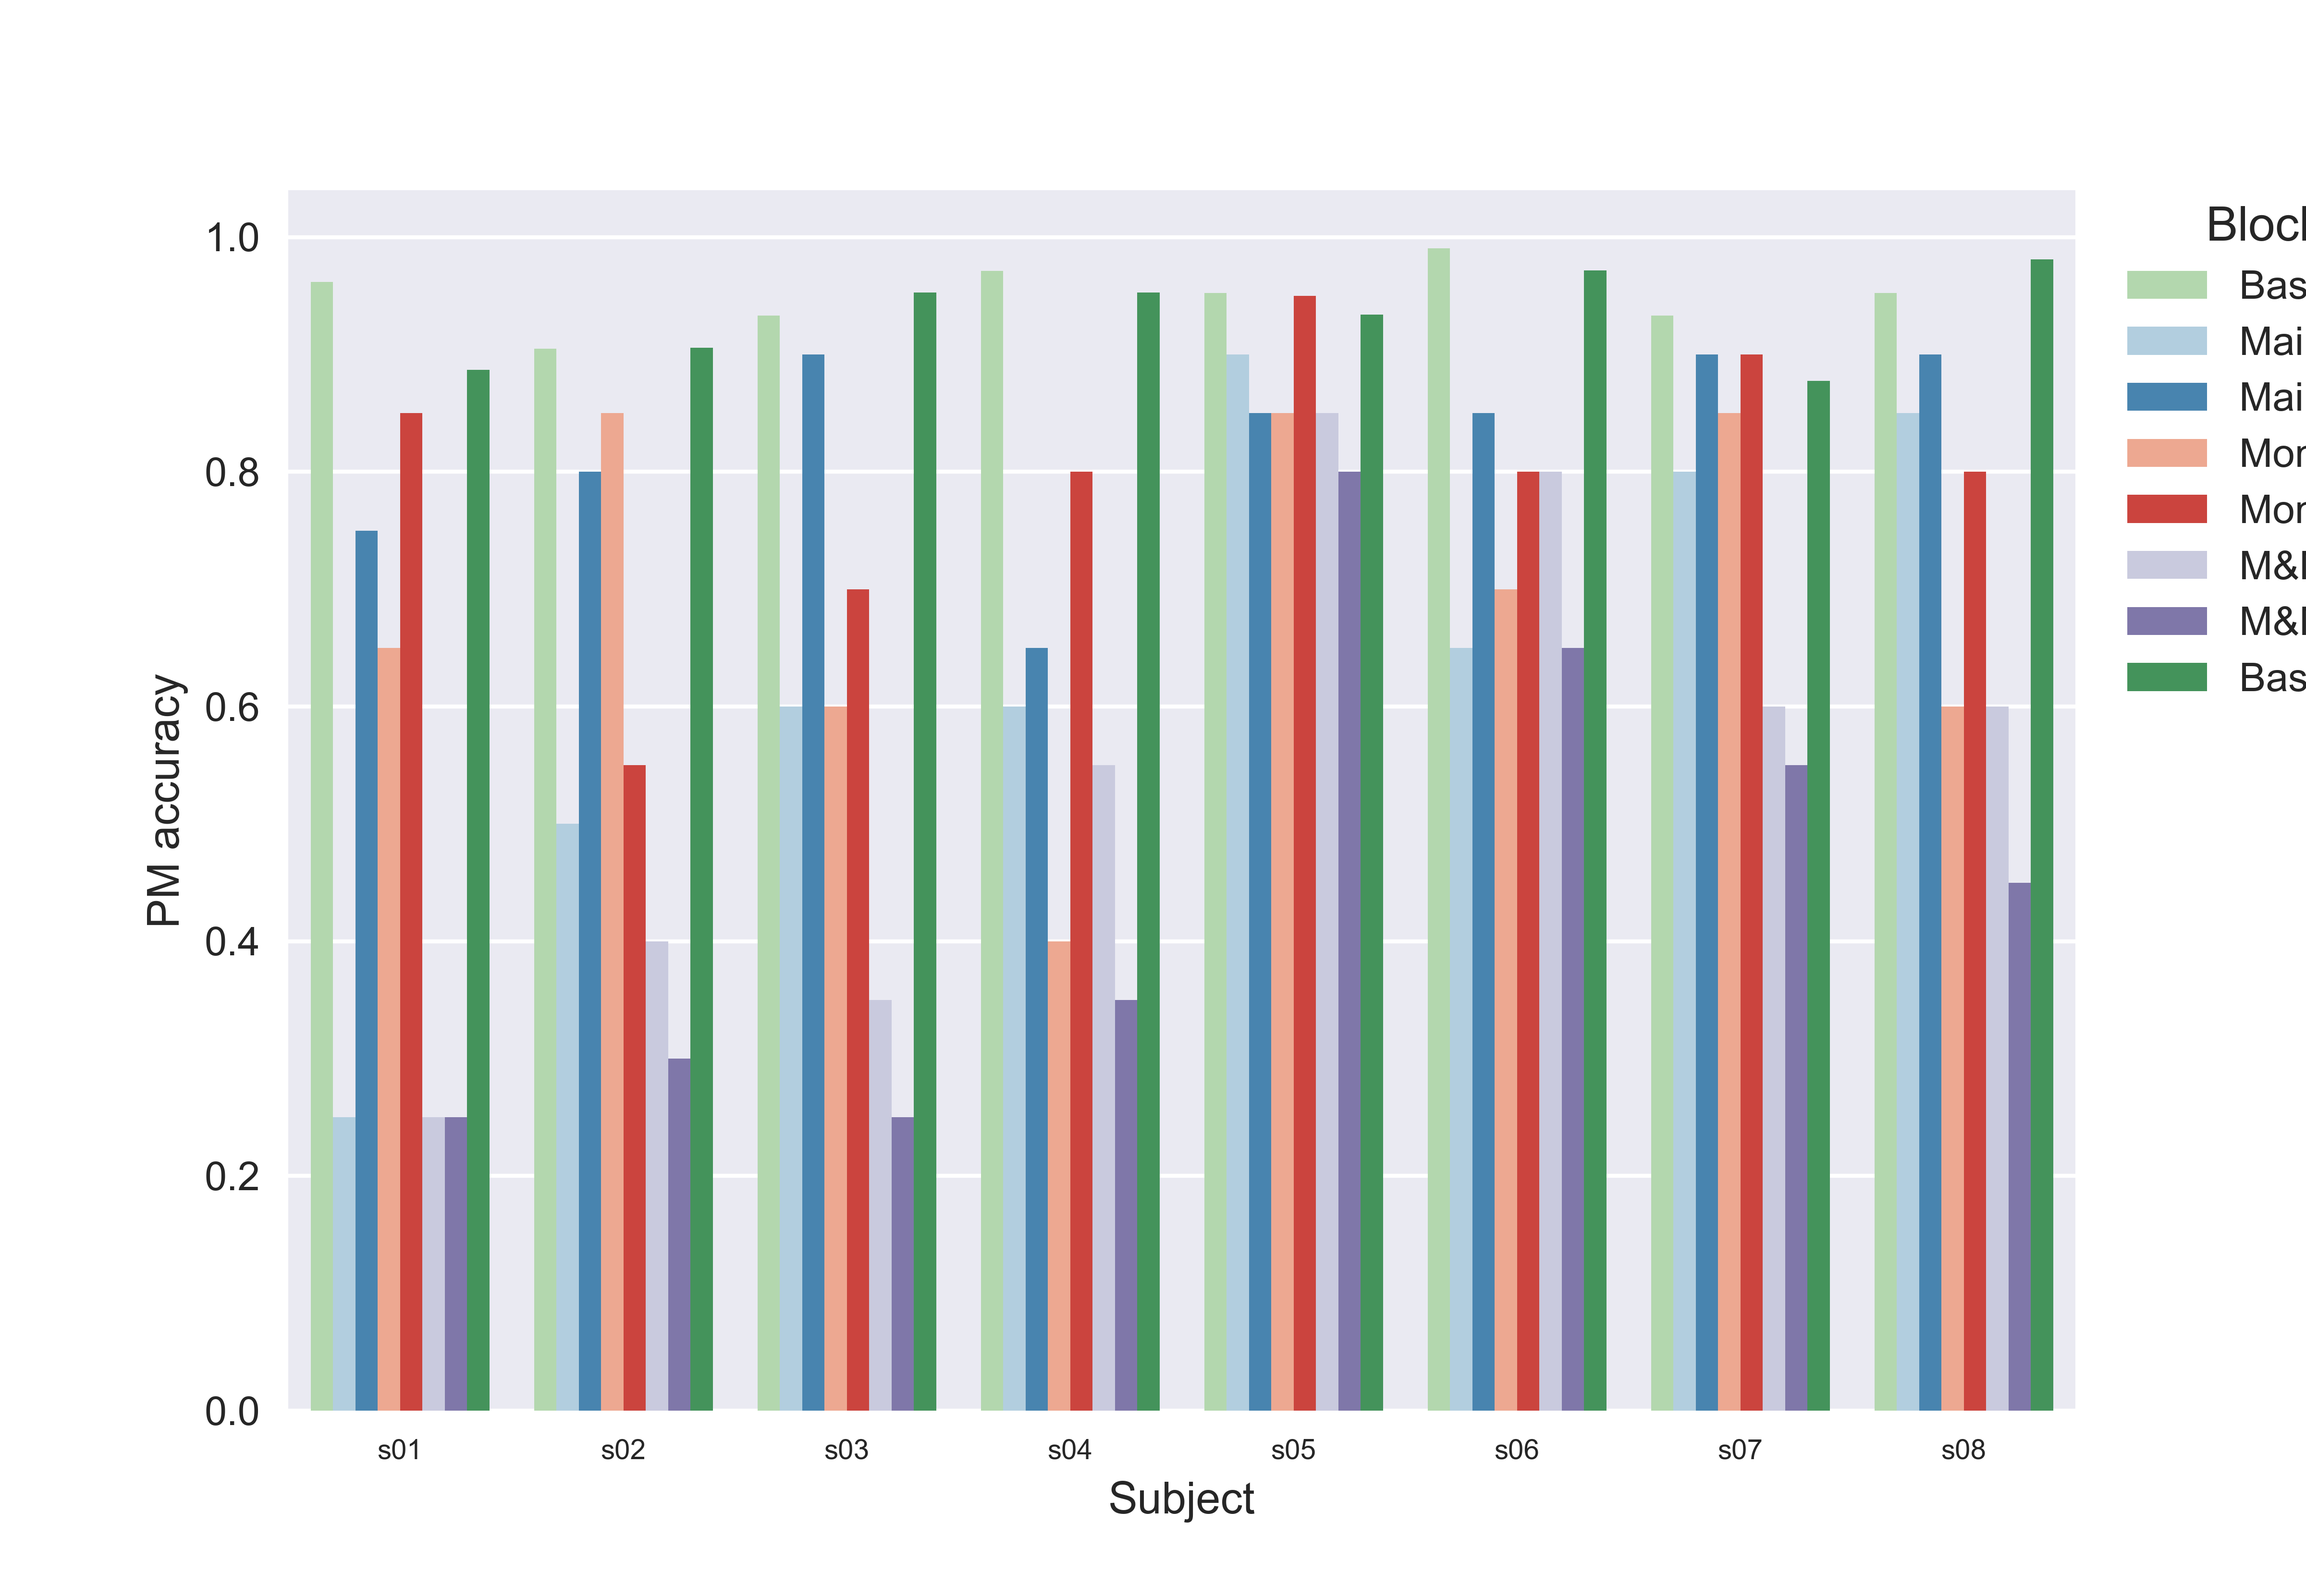
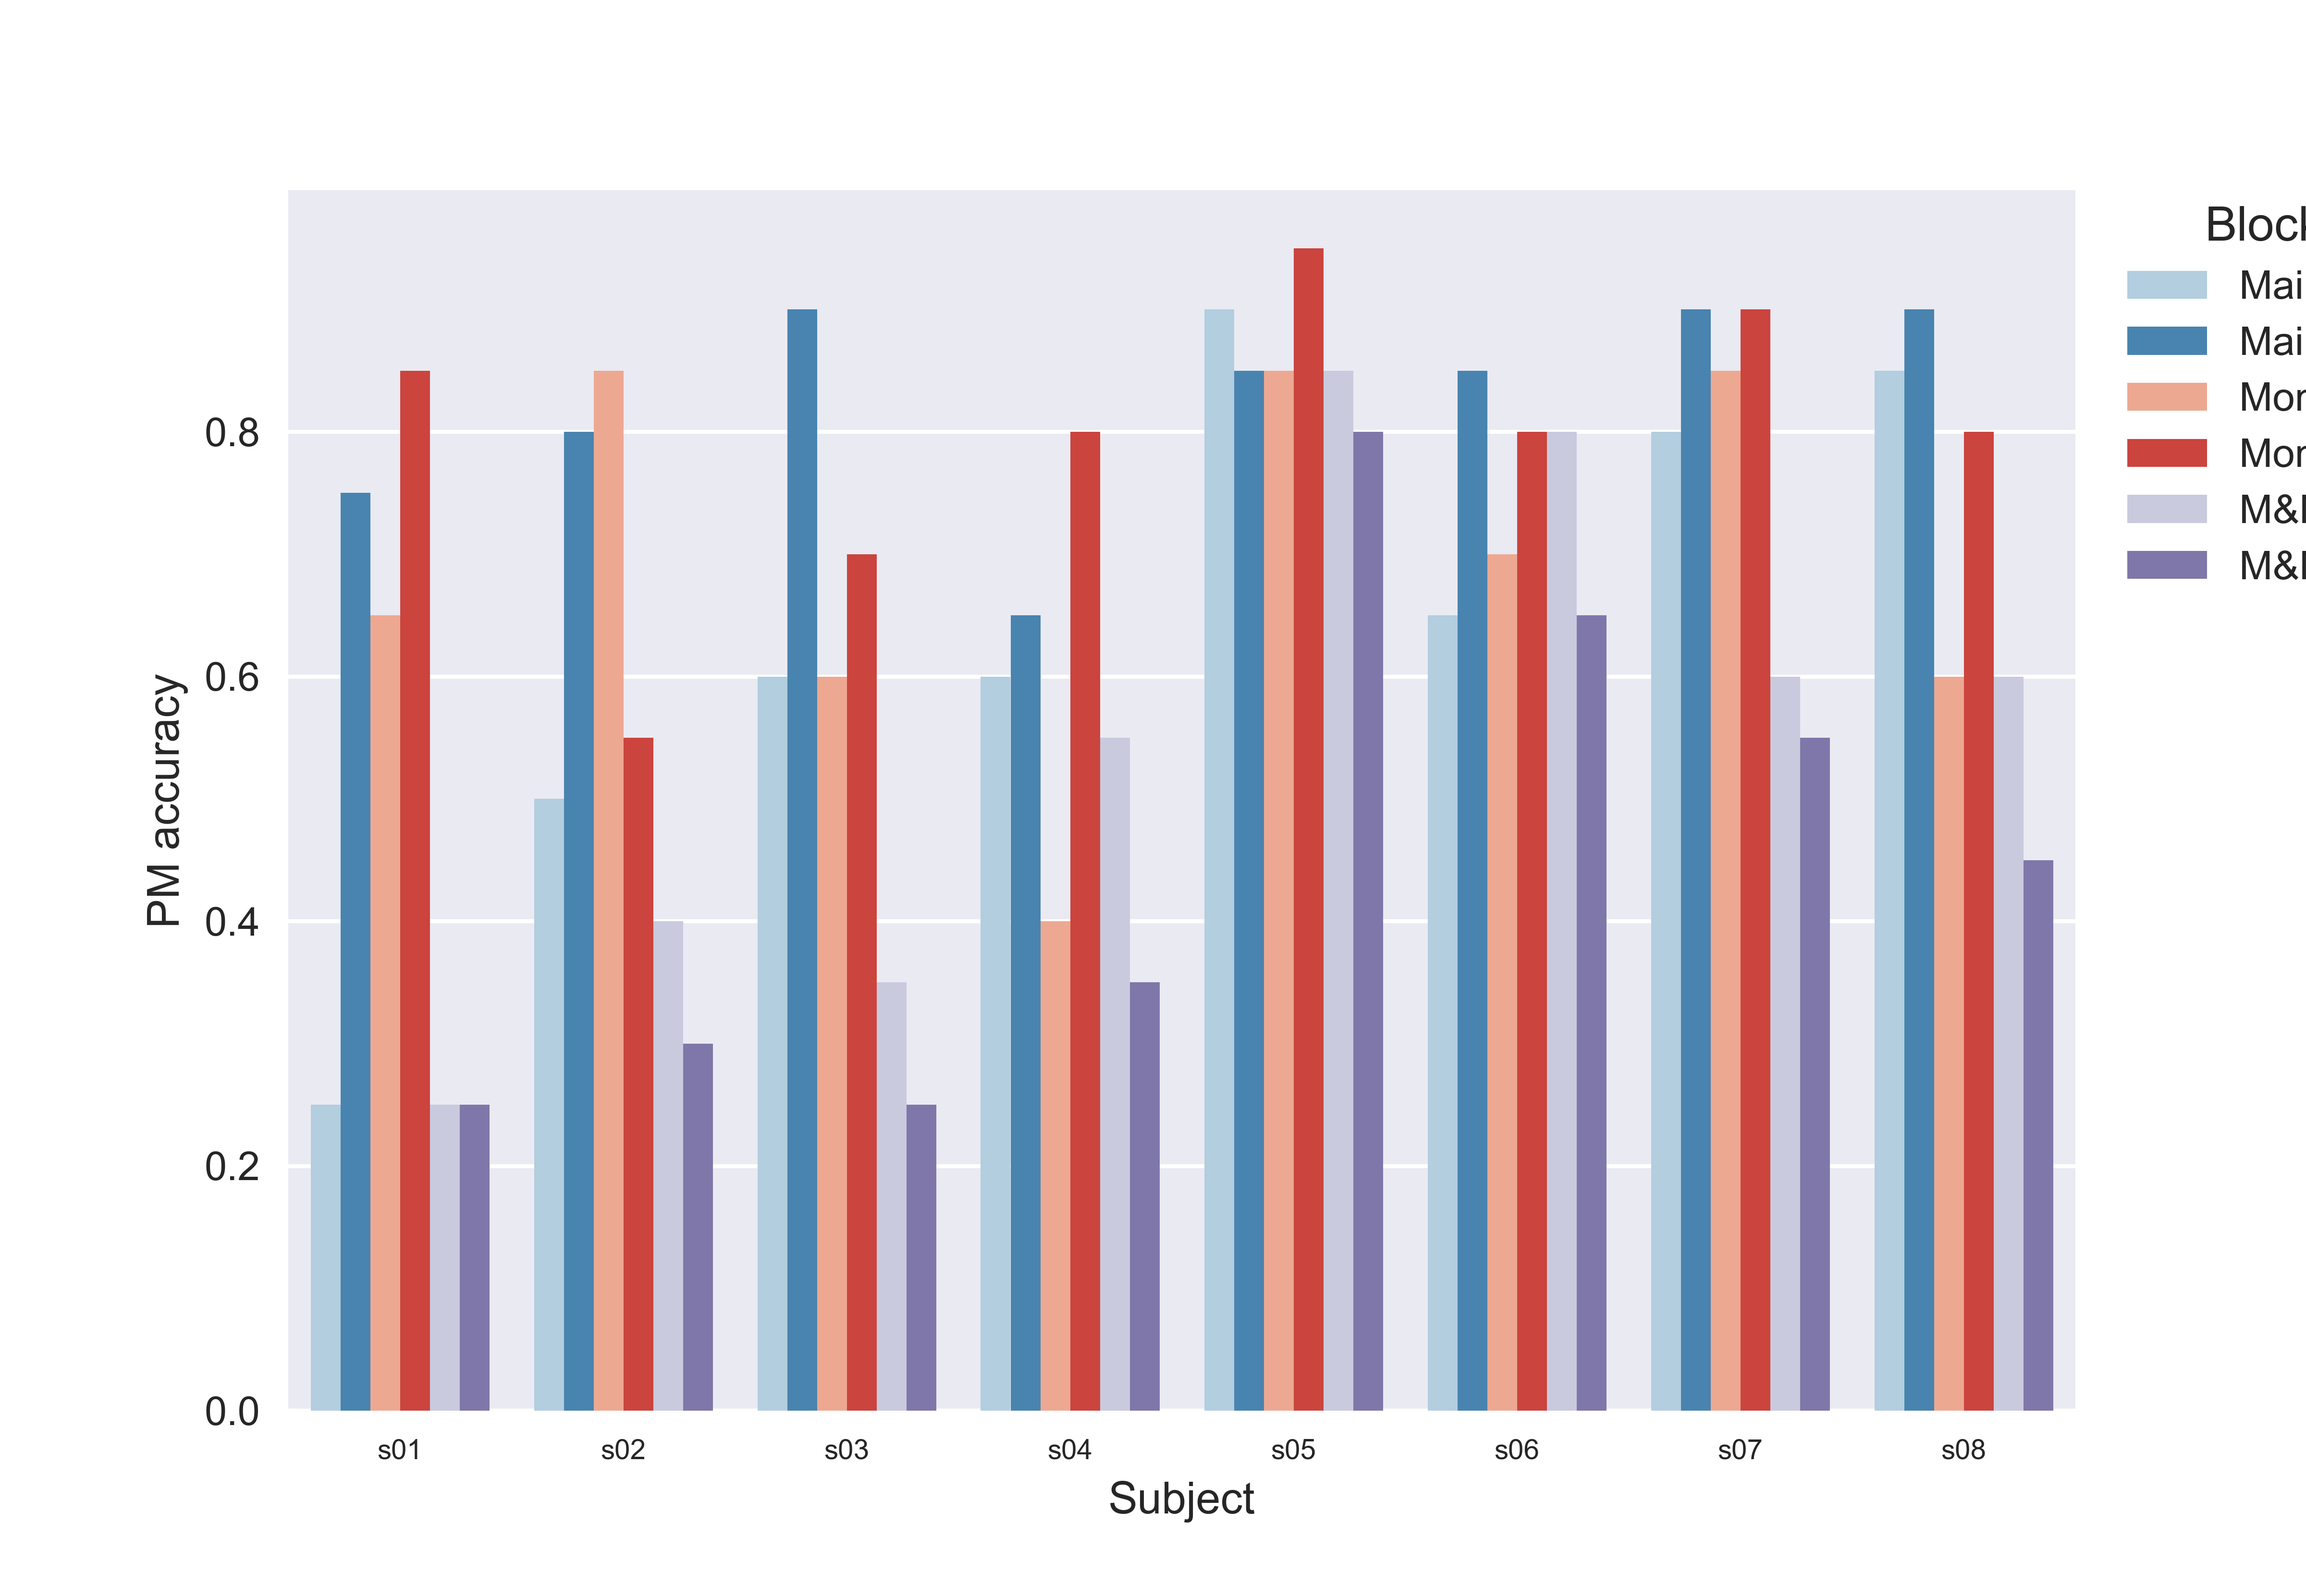
plots up to og acc

Changed region(s): [[0.0938, 0.1248, 1.0, 0.9052]]

diff --git a/analysis/monitain_analysis_v1.1.py b/analysis/monitain_analysis_v1.1.py
@@ -512,27 +512,30 @@ plt.close()
 
 
 #allTogether_df.columns = ['subj', 'pm_acc', 'meanTrial_rt', 'block']
-ax = sea.violinplot(x='block', y = 'meanTrial_rt', data=all_df_combined, palette = my_pal, cut = 0)
+ax = sea.violinplot(x='block', y = 'meanTrial_rt', hue = 'version', data=all_df_combined, palette = my_pal, cut = 0, split = True)
 plt.xlabel('Block')
 plt.ylabel('Reaction time (s)')
+ax.legend(title = 'Version')
 ax.tick_params(axis='x', labelsize=7)
 sea.despine()
 plt.savefig(FIGURE_PATH + 'all_together_compare_rt.png', dpi = 600)
 plt.close()
 
 # PM Accuracy
-ax = sea.barplot(x='block', y= 'pm_acc', data=all_df_combined_minusBase, palette=my_pal[1:-1], ci = None)
+ax = sea.barplot(x='block', y= 'pm_acc', hue = 'version', data=all_df_combined_minusBase, palette=my_pal[1:-1], ci = None)
 plt.xlabel('Block')
 plt.ylabel('PM accuracy')
+ax.legend(title = 'Version')
 ax.tick_params(axis='x', labelsize=7)
 sea.despine()
 plt.savefig(FIGURE_PATH + 'all_together_compare_pmacc.png', dpi = 600)
 plt.close()
 
 # OG Accuracy
-ax = sea.barplot(x='block', y= 'og_acc', data=all_df_combined, palette=my_pal, ci = None)
+ax = sea.barplot(x='block', y= 'og_acc', hue = 'version', data=all_df_combined, palette=my_pal, ci = None)
 plt.xlabel('Subject')
 plt.ylabel('OG accuracy')
+ax.legend(title = 'Version')
 ax.tick_params(axis='x', labelsize=7)
 sea.despine()
 plt.savefig(FIGURE_PATH + 'all_together_compare_ogacc.png', dpi = 600)
